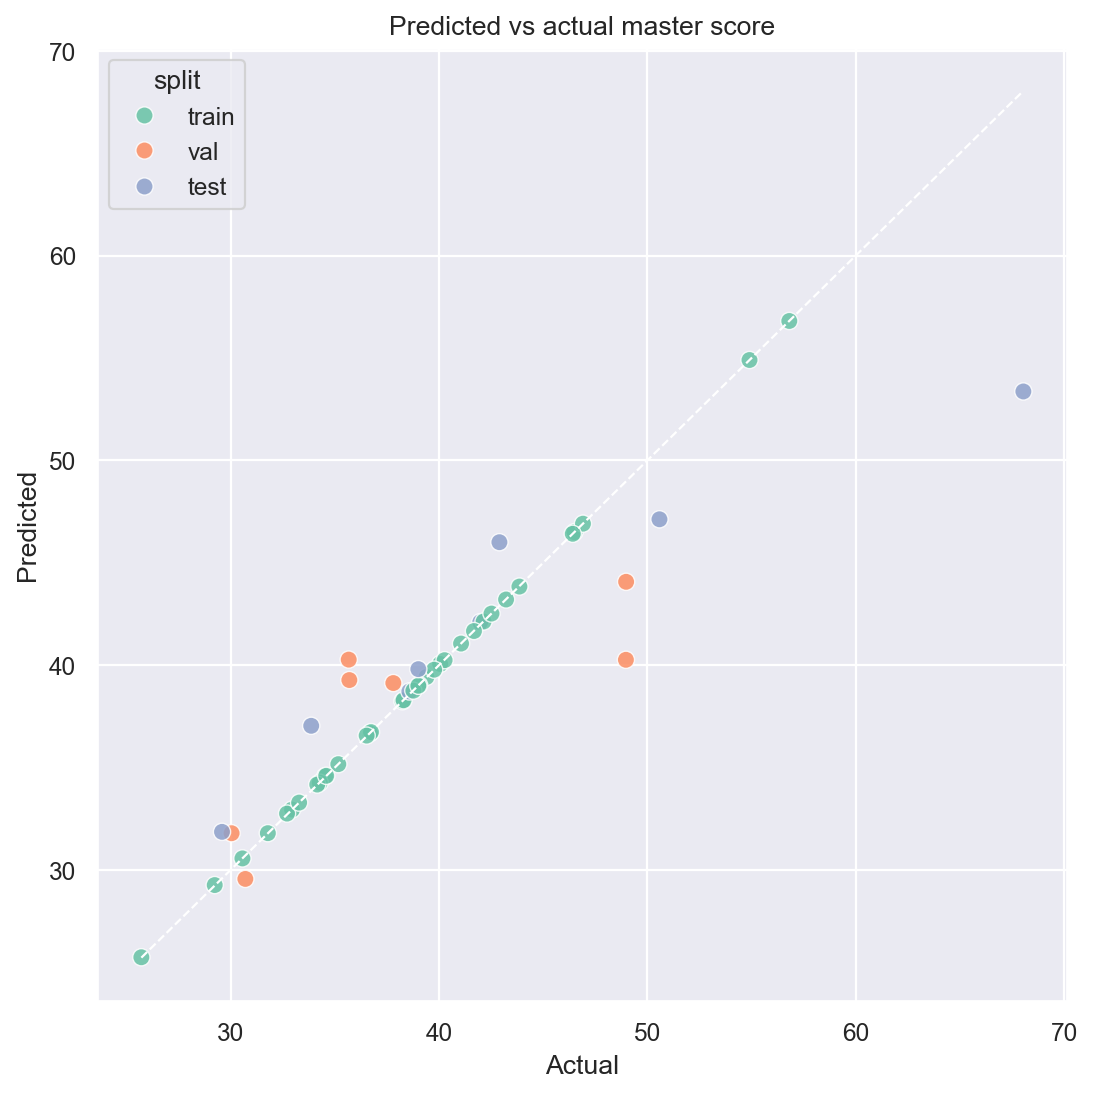
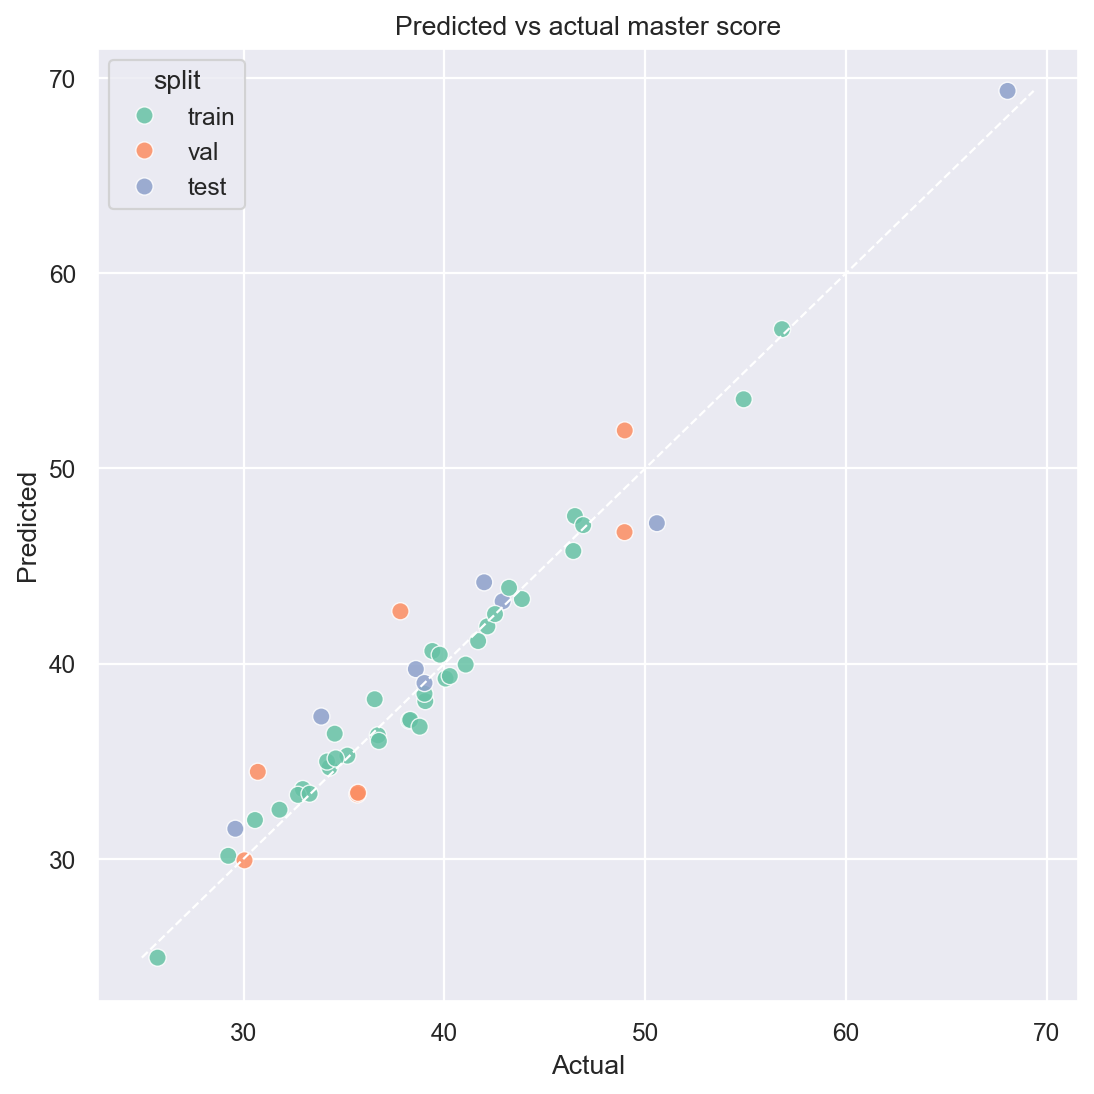
Reduce validation error with ridge regression

diff --git a/src/data_processing/COMPLETE_PIPELINE.py b/src/data_processing/COMPLETE_PIPELINE.py
@@ -35,7 +35,7 @@ import seaborn as sns
 from sklearn.preprocessing import LabelEncoder, MinMaxScaler, StandardScaler
 from sklearn.model_selection import train_test_split
 from sklearn.ensemble import RandomForestRegressor, GradientBoostingRegressor
-from sklearn.linear_model import LinearRegression
+from sklearn.linear_model import LinearRegression, Ridge, ElasticNet
 from sklearn.metrics import r2_score, mean_absolute_error, mean_squared_error
 
 # Stats
@@ -453,7 +453,8 @@ print("="*80)
 
 models = {
     "Linear Regression": LinearRegression(),
-    "Random Forest": RandomForestRegressor(n_estimators=100, random_state=42, max_depth=5),
+    "Ridge Regression": Ridge(alpha=0.1, random_state=42),
+    "Elastic Net": ElasticNet(alpha=0.1, l1_ratio=0.2, random_state=42, max_iter=10000),
     "Gradient Boosting": GradientBoostingRegressor(n_estimators=100, random_state=42, max_depth=3, learning_rate=0.1),
 }
 
@@ -503,13 +504,14 @@ for model_name in models.keys():
     test_mae = results[f"{model_name}_test"]["mae"]
     print(f"{model_name:<25} {train_mae:<15.3f} {val_mae:<15.3f} {test_mae:<15.3f}")
 
-# Get best model
+# Get best model using validation performance, not the test set
 best_model_name = max(
-    ["Random Forest", "Gradient Boosting"],
-    key=lambda m: results[f"{m}_test"]["r2"]
+    models.keys(),
+    key=lambda m: (results[f"{m}_val"]["r2"], -results[f"{m}_val"]["mae"])
 )
 best_model = results[f"{best_model_name}_test"]["model"]
 print(f"\n★ BEST MODEL: {best_model_name}")
+print(f"  Selected on validation R² = {results[f'{best_model_name}_val']['r2']}")
 print(f"  Test R² = {results[f'{best_model_name}_test']['r2']}")
 print(f"  Test MAE = {results[f'{best_model_name}_test']['mae']}")
 
@@ -564,6 +566,17 @@ if hasattr(best_model, "feature_importances_"):
         "feature": SELECTED_FEATURES,
         "importance": best_model.feature_importances_
     }).sort_values("importance", ascending=False)
+elif hasattr(best_model, "coef_"):
+    coefficients = np.asarray(best_model.coef_).ravel()
+    feature_importance = pd.DataFrame({
+        "feature": SELECTED_FEATURES,
+        "importance": np.abs(coefficients),
+        "coefficient": coefficients
+    }).sort_values("importance", ascending=False)
+else:
+    feature_importance = None
+
+if feature_importance is not None:
     feature_importance.to_csv(PROCESSED_DIR / "feature_importance.csv", index=False)
     print(f"✓ Saved: feature_importance.csv (from {best_model_name})")
 